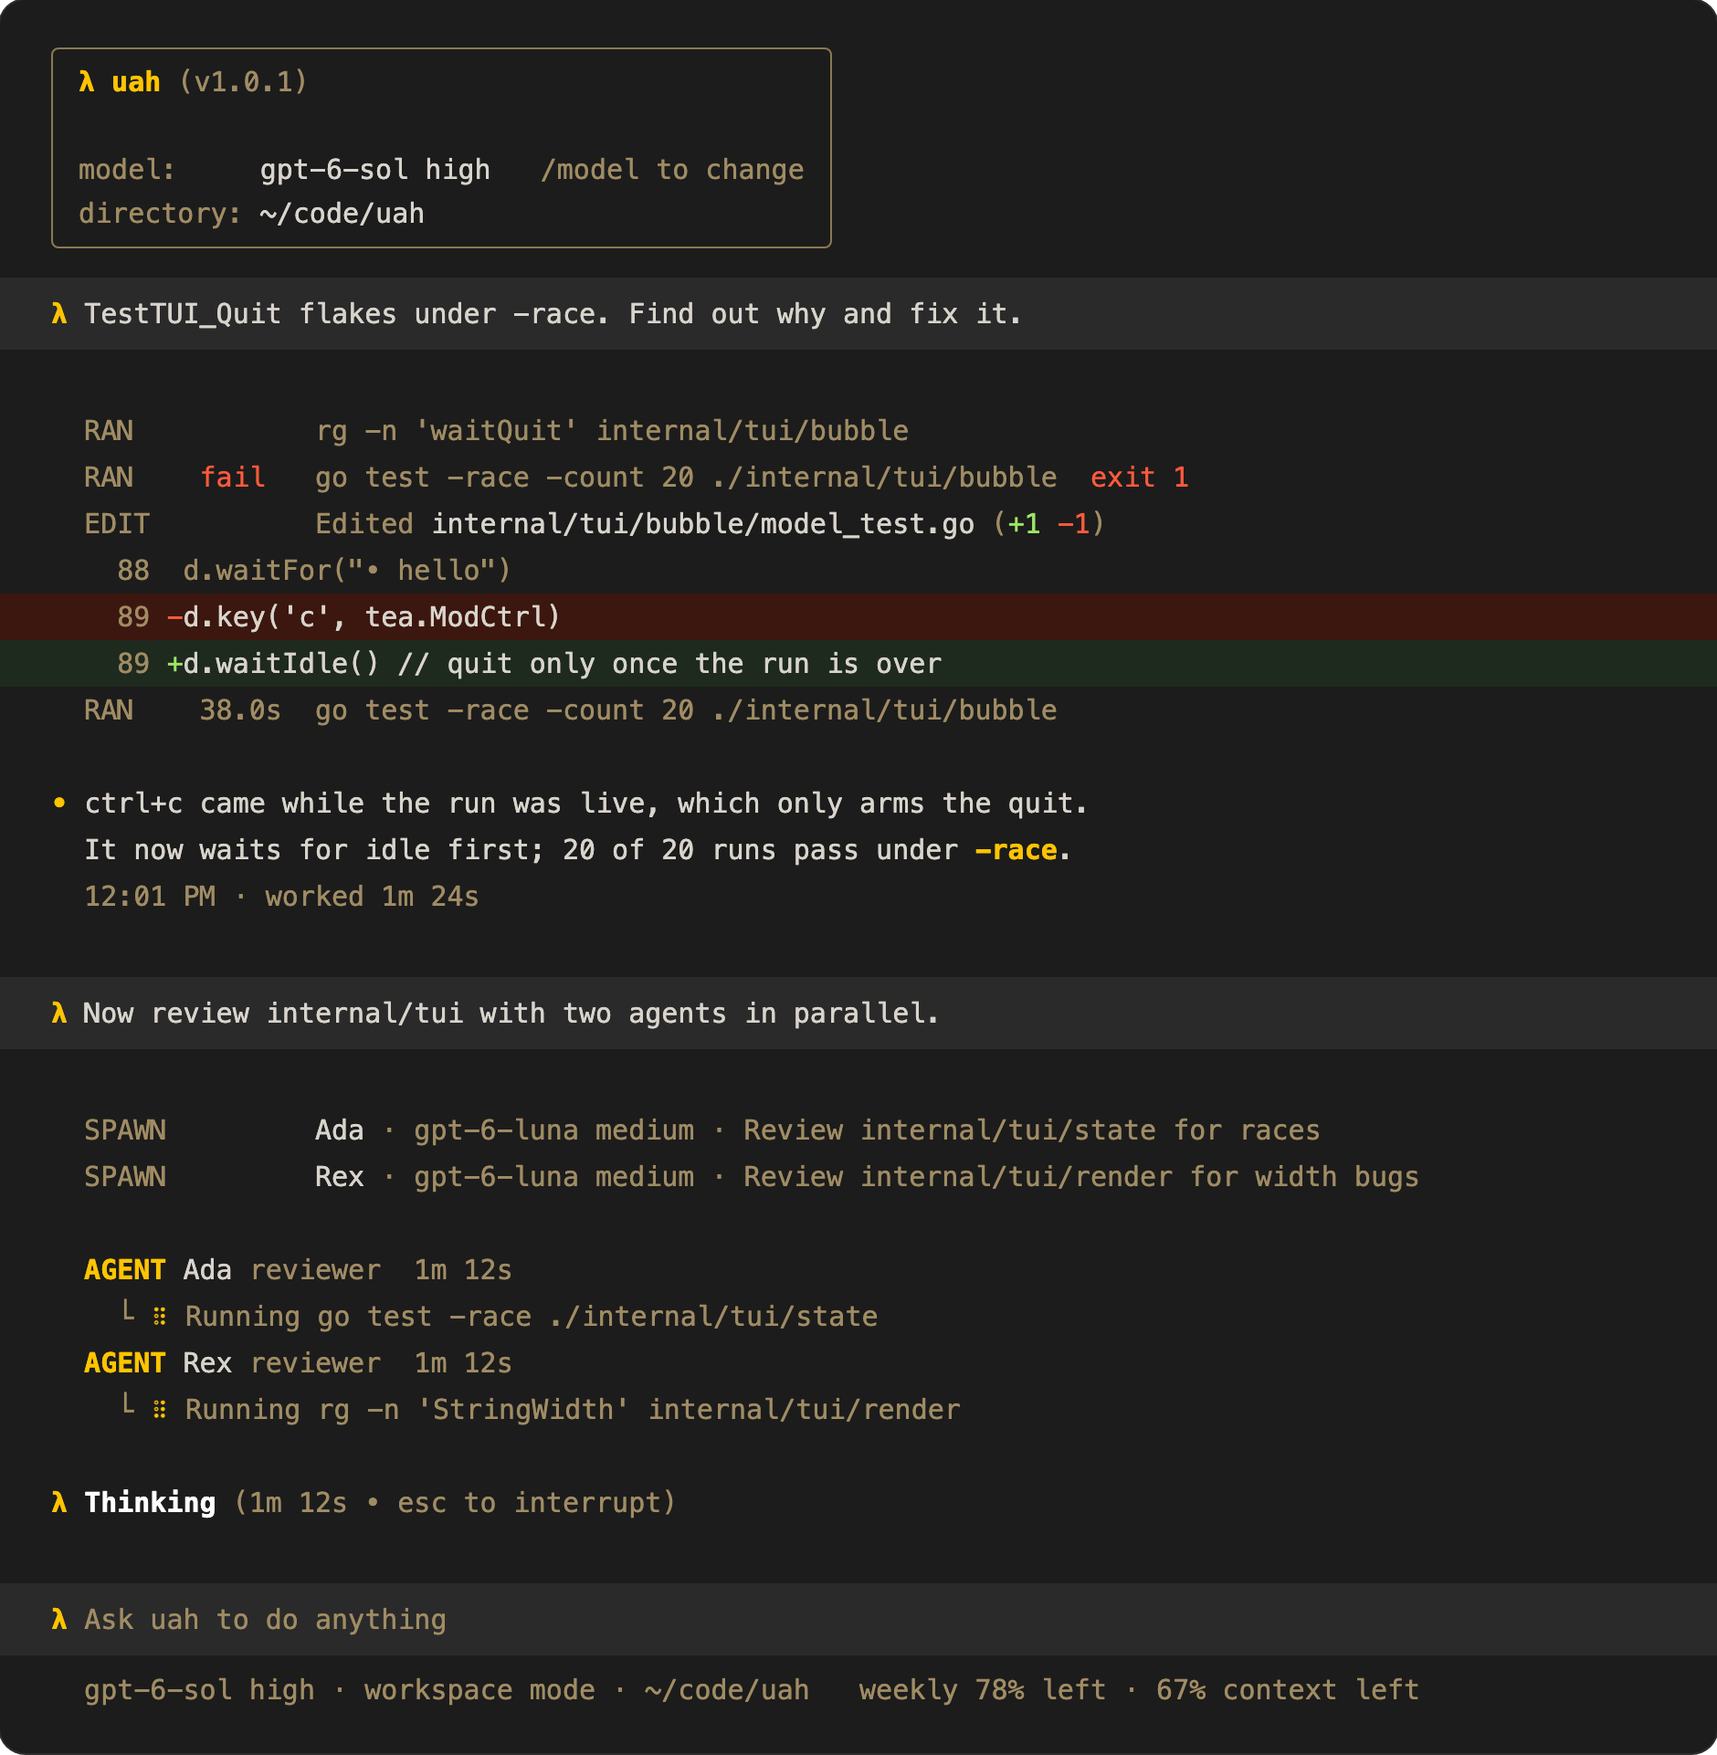
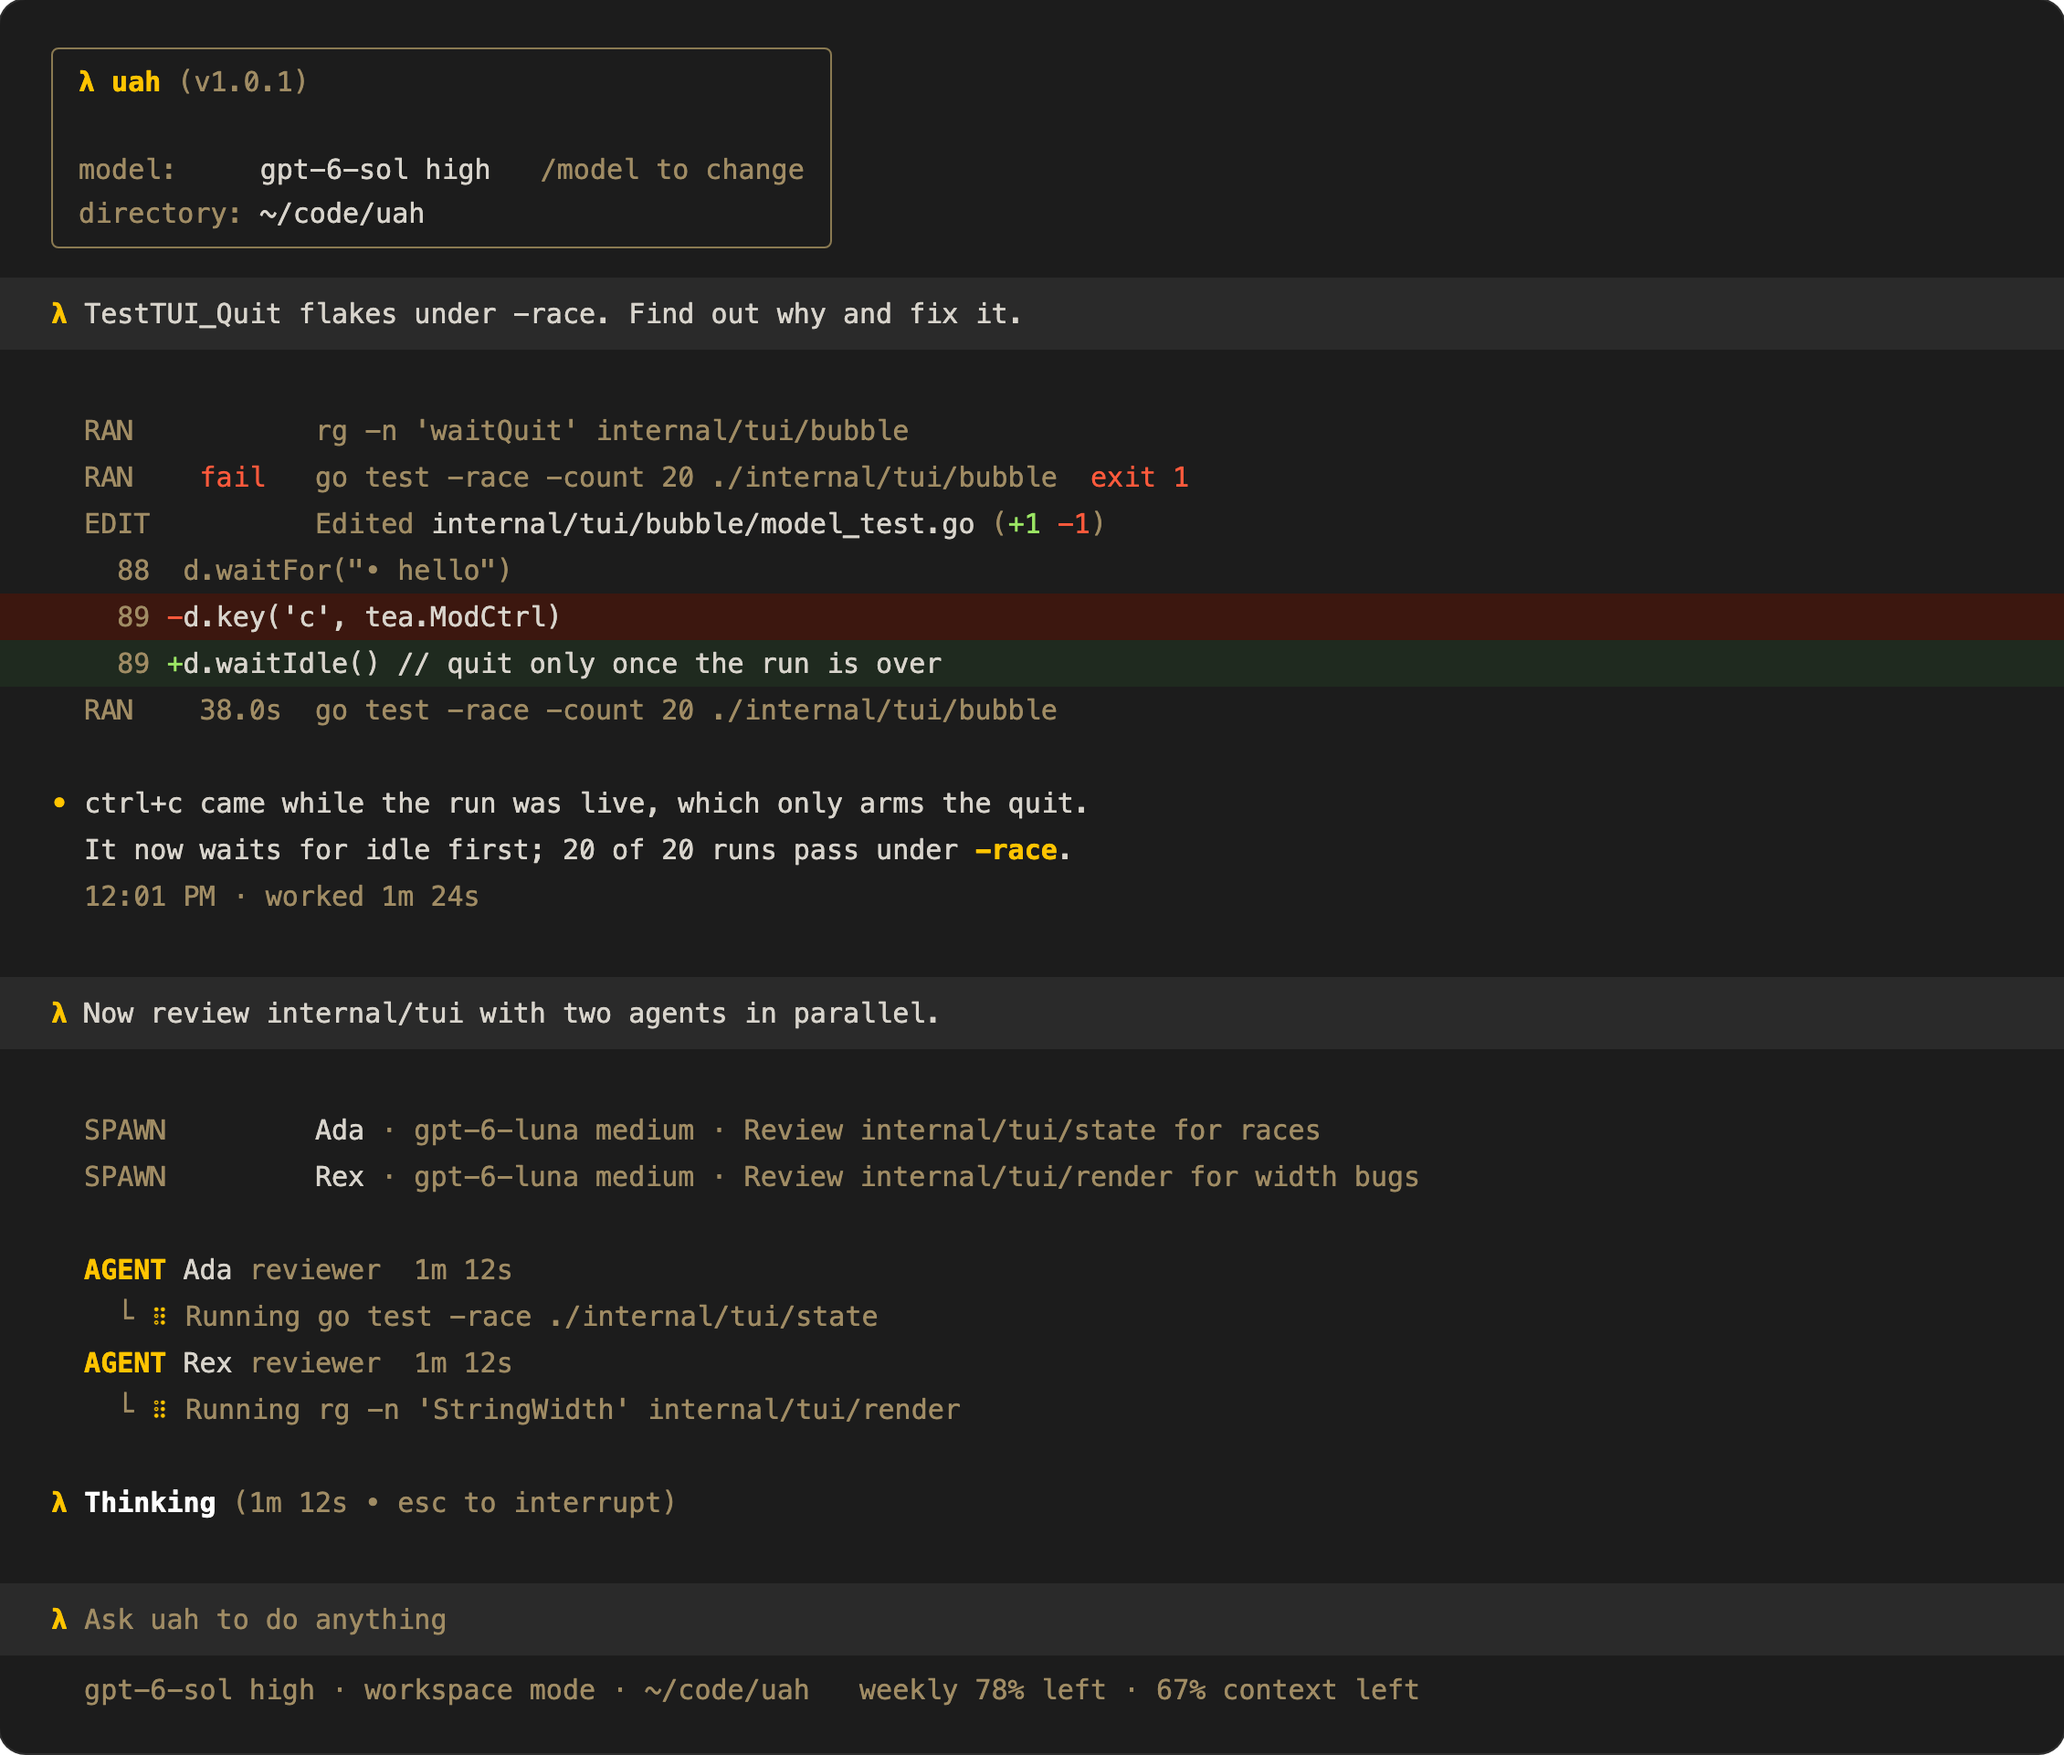
docs: a feature table, the Memoria note, and a wider title image

diff --git a/docs/assets/title.html b/docs/assets/title.html
@@ -3,7 +3,7 @@
 @font-face { font-family: "Mono"; src: local("JetBrains Mono"), local("SF Mono"), local("SFMono-Regular"), local("Menlo"); }
 :root { --bg:#1c1c1c; --band:#2a2a2a; --text:#d8d4cc; --dim:#a08c64; --accent:#ffc400; --bad:#ff5a3c; --good:#9be564; }
 html,body { margin:0; background:transparent; }
-.win { width: 940px; margin: 0; background: var(--bg); border-radius: 14px; padding: 26px 0 22px; font: 15px/1.7 "SF Mono","JetBrains Mono",Menlo,monospace; color: var(--text); box-shadow: 0 0 0 1px #2e2e2e; }
+.win { width: 1130px; margin: 0; background: var(--bg); border-radius: 14px; padding: 26px 0 22px; font: 15px/1.7 "SF Mono","JetBrains Mono",Menlo,monospace; color: var(--text); box-shadow: 0 0 0 1px #2e2e2e; }
 .ln { padding: 0 28px; white-space: pre; min-height: 1.7em; }
 .band { background: var(--band); padding-top: 7px; padding-bottom: 7px; margin: 6px 0; }
 .a { color: var(--accent); font-weight: 700 } .d { color: var(--dim) } .t { color: var(--text) } .b { color: var(--bad) } .g { color: var(--good) } .w { font-weight:700; color:#fff }

diff --git a/README.md b/README.md
@@ -1,17 +1,39 @@
 <!-- memoria:section id="overview" files="cmd/uah/main.go go.mod" -->
 # uah
 
-<p align="center"><img src="docs/assets/uah.png" alt="The uah TUI: a flaky test found and fixed with a diff, then two subagents reviewing in parallel" width="760"></p>
+<p align="center"><img src="docs/assets/uah.png" alt="The uah TUI: a flaky test found and fixed with a diff, then two subagents reviewing in parallel" width="900"></p>
 
-`uah` is a terminal coding agent built on [uagent](https://github.com/viktordanov/uagent), the wrapper around unreal-agent-runner. It works like Codex: a TUI and a headless `uah run`, sessions you can resume, AGENTS.md and skills, a sandbox with approvals and auto-review, MCP servers, subagents, compaction, and hooks.
+`uah` is a terminal coding agent built on [uagent](https://github.com/viktordanov/uagent), the wrapper around unreal-agent-runner. It works like Codex, with a TUI and a headless `uah run`.
+
+> [!NOTE]
+> This project's documentation is maintained with [Memoria](https://github.com/viktordanov/rs-memoria). Each README is tied to the code it describes, and CI fails when that code changes and nobody has reviewed the README. The docs get the same review as the code.
+
+## Features
+
+| Feature | What you get |
+| --- | --- |
+| [Sessions](#resume-work) | Every session saved and searchable; `uah resume`, and the resume command printed when you quit |
+| [Usage](#see-your-plans-usage) | Your ChatGPT plan's limits in `/usage`, `/status`, and the footer; token usage on quit |
+| [Subagents](#delegate-to-subagents) | Parallel children with Codex's tools, `fork_context`, per-agent models, and a live view of each |
+| [Agent files](#delegate-to-subagents) | Kinds of subagents in Markdown with front matter (Claude Code's) or TOML (Codex's) |
+| [Instructions and skills](#give-the-agent-instructions) | `AGENTS.md` and `SKILL.md` found as Codex finds them; `CLAUDE.md` as an opt-in |
+| [MCP](#add-an-mcp-server) | Stdio and HTTP servers in Codex's format, OAuth logins, and per-tool approvals |
+| [Sandboxing](#switch-the-permission-mode) | Seatbelt on macOS and bubblewrap on Linux, in read-only, workspace, auto, and full-access modes |
+| [Approvals](#let-a-command-run-without-asking) | Prompts you answer, command rules, "don't ask again", and an auto-reviewer in auto mode |
+| [Compaction](#keep-a-long-session-going) | Automatic and `/compact`, with a configurable model and prompt; `/clear` and `/context` |
+| [Images](#paste-an-image) | Paste a screenshot with ctrl+v, or drop an image file |
+| [Shell mode](#run-a-command-yourself) | `!` runs your own command; the agent sees its output with your next message |
+| [File edits](#file-edits-and-diffs) | Codex's `apply_patch`, shown as diffs |
+| [Hooks](#run-a-command-at-an-event) | Claude Code's hook contract, with trust for project hooks |
+| [Customization](#configuration) | Every key in TOML, `/config` in the TUI, and your own review and compaction prompts |
+
+More is planned: the [ledger](docs/ledger.md) tracks what is built and what is next.
 
 1. [Get started](#get-started)
 2. [Common tasks](#common-tasks)
 3. [Configuration](#configuration)
 4. [How it works](#how-it-works)
 5. [Development](#development)
-
-The [ledger](docs/ledger.md) tracks what is built and what is next.
 <!-- /memoria:section -->
 
 <!-- memoria:section id="usage" files="cmd/uah/main.go cmd/uah/models.go cmd/uah/run.go cmd/uah/resume.go cmd/uah/sessions.go cmd/uah/tui.go cmd/uah/tuiconfig.go cmd/uah/print.go cmd/uah/completion.go cmd/uah/doctor.go internal/app/doctor.go internal/app/doctorchecks.go cmd/uah/flags.go cmd/uah/prompts.go internal/images/images.go internal/images/store.go internal/images/paths.go internal/images/clipboard/clipboard.go internal/images/clipboard/macos.go internal/images/clipboard/linux.go internal/app/usershell.go internal/usershell/usershell.go internal/usershell/record.go internal/usershell/capture.go cmd/uah/usage.go internal/app/planusage.go" -->
@@ -201,15 +223,9 @@ Review only; do not edit files. List each finding with its file and line.
 
 The body is the subagent's instructions. `tools` limits the tools it is offered (Claude Code's `Edit` and `Write` are `apply_patch`; omit `tools` for all of them). `approve` lists commands and MCP tools it runs without asking, within the session's permission mode: read only stays read only, and a `forbid` rule still wins. Codex's TOML role files (`reviewer.toml`) work too. See [agent files](docs/configuration.md#subagents).
 
-Each subagent runs on the parent's provider. To give one another model, effort, or fast mode:
+A subagent runs on the parent's provider. Ask for another model or effort ("use a subagent on gpt-6-luna with low effort"), set `model`, `effort`, and `fast: true` in its agent file, or set defaults in `[agents]`; see [agent files](docs/configuration.md#subagents). Ask for a forked subagent ("fork a subagent to write the tests for what we just discussed") to hand it the conversation so far through `fork_context`.
 
-- **Model and effort for one task.** Ask for it ("use a subagent on gpt-6-luna with low effort"). The agent passes `model` and `reasoning_effort` to `spawn_agent`. On openai-codex, a model outside Codex's catalog fails at once, with the models to choose from.
-- **Model, effort, and fast mode for a kind of subagent.** Set `model`, `effort`, and `fast: true` in its agent file (`model`, `model_reasoning_effort`, and `service_tier = "priority"` in a TOML role file); fast mode then applies to that kind only. See [agent files](docs/configuration.md#subagents).
-- **Defaults for every subagent.** Set `default_subagent_model` and `default_subagent_reasoning_effort` in `[agents]`. Fast mode for every subagent follows the parent: `/fast` in the session turns it on for the children it starts.
-
-To hand a subagent the conversation so far, ask for a forked subagent ("fork a subagent to write the tests for what we just discussed"): `spawn_agent` with `fork_context` starts it from a copy of the parent's history, so it needs no exploring again, and its first request starts with the parent's last one, which lets the provider reuse its prompt cache.
-
-To watch a subagent work, type `/agents <name>` (tab completes the names): the TUI shows its transcript as it works, and a message you type there goes to it. alt+← and alt+→ switch between the main agent and the subagents, as in Codex (alt+b and alt+f on an empty prompt in terminals that send those), esc esc interrupts the agent you are viewing, and ctrl+enter steers it. When a subagent finishes or is interrupted, the main agent is told with your next message, as in Codex; one it is waiting for returns at once. The main agent keeps running meanwhile. `uah sessions` lists subagents under their parent as `subagent-1a2b3c4d`, and `uah sessions show subagent-1a2b3c4d` prints one's transcript.
+To watch a subagent, type `/agents <name>` or press alt+← and alt+→: the TUI shows its transcript, and what you type goes to it. When a subagent finishes or is interrupted, the main agent is told with your next message, as in Codex. `uah sessions show subagent-1a2b3c4d` prints a finished one's transcript.
 
 ### Keep a long session going
 
@@ -237,7 +253,7 @@ Hooks in a project's `.uagent/config.toml` run only after `uah hooks trust`; `ua
 
 ### Change settings
 
-Type `/config` in the TUI. It lists auto-compact and its token limit, the compaction model, the default model and effort, fast mode, the permission mode, the details view, and the mouse, each with its value and where the value comes from. ↑↓ choose a setting; enter or space changes it (toggles, cycles, or opens a value to type); ←→ cycle back and forth; esc closes. Each change is saved at once to your user file, keeping its comments. The model, effort, fast mode, and permission mode also change the running session, the details view and the mouse change at once, and the compaction settings apply to sessions opened afterwards (`/new`, `/resume`). A flag or a trusted project file that sets the same key still wins; `/config` says so.
+Type `/config` in the TUI. It lists the basic settings (compaction, the model and effort, fast mode, the permission mode, the details view, and the mouse) with each value and its source. ↑↓ choose, enter or space changes, esc closes. Each change is saved to your user file, keeping its comments, and applies to the running session where it can; compaction settings apply from the next session. A flag or a trusted project file that sets the same key still wins, and `/config` says so.
 
 ### See what is configured
 
@@ -447,7 +463,7 @@ go test -race ./...          # unit and end-to-end tests
 golangci-lint run ./...      # lint (golangci-lint v2.13.2)
 ```
 
-The title image is [docs/assets/title.html](docs/assets/title.html), drawn in the TUI's colors and captured with headless Chrome: `chrome --headless=new --force-device-scale-factor=2 --default-background-color=00000000 --window-size=940,1400 --screenshot=uah.png title.html`, then `magick uah.png -trim +repage uah.png`.
+The title image is [docs/assets/title.html](docs/assets/title.html), drawn in the TUI's colors and captured with headless Chrome: `chrome --headless=new --force-device-scale-factor=2 --default-background-color=00000000 --window-size=1130,1400 --screenshot=uah.png title.html`, then `magick uah.png -trim +repage uah.png`.
 
 CI runs the build, the race tests, and the linter on each push; the linter also fails on a function above 20 cyclomatic complexity, a backstop for the rule of about 15. Design records, the architecture rules, and the documentation procedure are in [docs](docs/README.md):
 
